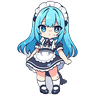
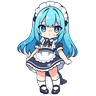
v0.10.4：修袜间及以下灰色背景残留——v3 净化规则：低饱和灰白(min≥210&色差≤20)组件+窗口bbox下部35%×水平28-72%完整包含判定；v1 纯白246阈值漏掉 215-245 灰档（用户反馈灰色仍在）；实测分层袜/鞋/肤色/裙摆褶边零误伤，残留检测 399px 定位为裙摆围裙白边（角色装饰，正常保留）；30张全量重净化+灰底用户视角验证通过

diff --git a/AI立绘交接文档.md b/AI立绘交接文档.md
@@ -89,9 +89,12 @@ cd /d/AI/ComfyUI && nohup ./venv/Scripts/python.exe main.py --port 8188 > /d/AI/
 pet_v2_postprocess.py：remove(session=u2net) → 连通背景白填充(轮1边界白+轮2邻透明白块)
 → MinFilter(3) alpha 腐蚀(1px 防白边) → alpha bbox 裁切 → 长边 LANCZOS 缩到 64/96/128
 → 方形画布底对齐粘贴 → assets/ai/
-pet_v2_gap_fix.py（成品级，必须先于入仓跑）：腿间缝隙残留白色净化——
-窗口规则 = bbox 下部30%×水平20-80%带内【完整包含】的白色连通块(min≥246&alpha>128)置透明；
-实测灰度分层：缝隙冷白≥246 / 袜子阴影暗色≤200 / 裙白在腰腹(窗口外)，袜子鞋裙安好
+pet_v2_gap_fix.py（成品级，必须先于入仓跑）：腿间/袜间灰白残留净化——
+目标 = bbox 下部35%×水平28-72%带内【完整包含】的低饱和灰白连通组件(min≥210
+&色差≤20&alpha>128)置透明。阈值依据（实测分层）：缝隙/阴影灰白 210-255 低饱和、
+鞋/描线 ≤160、袜子 165-200(min<210 不命中)、肤色暖色(色差>20)、
+裙摆褶边白与裙体同组件(尺寸超窗不命中)；裙白在腰腹。早期 v1(纯白246)会漏掉
+215-245 灰档（用户反馈"灰色仍在"），**勿降级回 v1 规则**
 ```
 - venv **已装** rembg 2.0.81 + onnxruntime + scipy（本版无 isnet_anime，用 u2net 足够）
 
